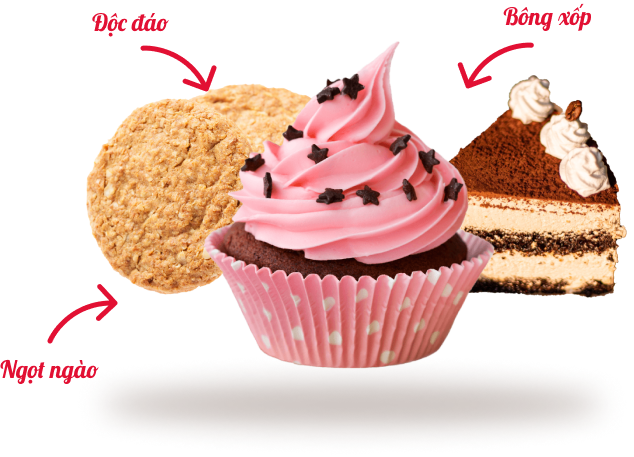
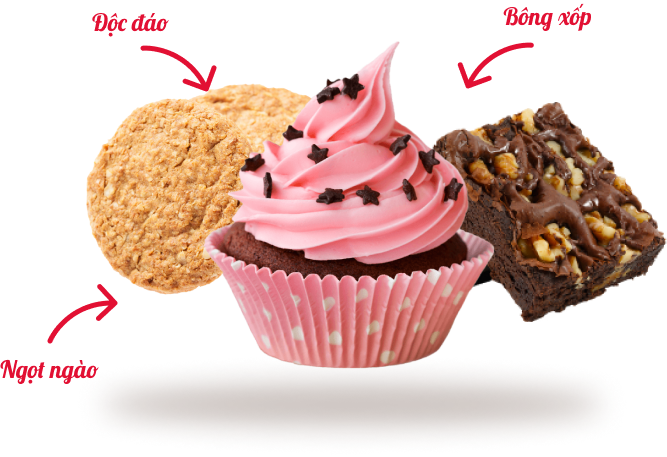
update category

diff --git a/frontend/src/pages/productDetail/ProductDetail.jsx b/frontend/src/pages/productDetail/ProductDetail.jsx
@@ -6,7 +6,7 @@ import { Link } from 'react-router-dom';
 import Card from '../../components/card/Card';
 import Button from '../../components/button/Button';
 // import TextField from '../../components/textField/TextField';
-import BoxQuantityComponent from '../../components/boxquantity/BoxQuantity';
+// import BoxQuantityComponent from '../../components/boxquantity/BoxQuantity';
 import Footer from '../../components/footer/Footer';
 import TabReview from './tab/TabReview';
 
@@ -98,10 +98,10 @@ export default function ProductDetail() {
                 <div className="productDetail__info_text-description body--2">
                   Mô tả sản phẩm ngắn gọn Mô tả sản phẩm ngắn gọn Mô tả sản phẩm ngắn gọn Mô tả sản phẩm ngắn gọn Mô tả sản phẩm ngắn gọn Mô tả sản phẩm ngắn gọn Mô tả sản phẩm ngắn gọn Mô tả sản phẩm ngắn gọn
                 </div>
-                <div className="productDetail__info_text-quantity body--2">
+                {/* <div className="productDetail__info_text-quantity body--2">
                   <span className='title--3'>Số lượng</span>
                   <BoxQuantityComponent height="2.5rem" />
-                </div>
+                </div> */}
 
                 <div className="productDetail__info_text-button">
                   <div className="addToCart_button">

diff --git a/frontend/src/pages/home/Home.jsx b/frontend/src/pages/home/Home.jsx
@@ -53,8 +53,8 @@ getProduct();
             <Category img="/src/assets/category/cupcake.png" title="Cupcake"  description="Món ăn nhẹ ngọt ngào và đáng yêu"></Category>
           </Link>
 
-          <Link className={home.category__item} to = './tiramisu'>
-            <Category img="/src/assets/category/tiramisu.png" title="Tiramisu"  description="Món bánh ngọt sang trọng và béo ngậy"></Category>
+          <Link className={home.category__item} to = './brownie'>
+            <Category img="/src/assets/category/brownie.png" title="Brownie"  description="Món bánh ngọt sang trọng và béo ngậy"></Category>
           </Link>
 
           <Link className={home.category__item} to = './cookie'>

diff --git a/frontend/src/pages/home/Home.module.css b/frontend/src/pages/home/Home.module.css
@@ -5,7 +5,7 @@
 }
 
 .content {
-    padding: 0 7.5rem;
+    margin-inline: 7.5rem;
 }
 
 ul, li {
@@ -94,6 +94,9 @@ ul, li {
 /* Responsive */
 
 @media screen and (max-width: 1284px) {
+    .content {
+        margin-inline: 3rem;
+    }
     .cuscup__container, .randombox__container {
       flex-direction: column;
       margin-inline: 0;

diff --git a/frontend/src/components/banner/Banner.module.css b/frontend/src/components/banner/Banner.module.css
@@ -37,6 +37,12 @@
 }
 
 /* Responsive */
+
+@media screen and (max-width: 1284px) {
+  .container {
+      margin-inline: 3rem;
+  }
+}
   
 @media screen and (max-width: 884px) {
   .container {
